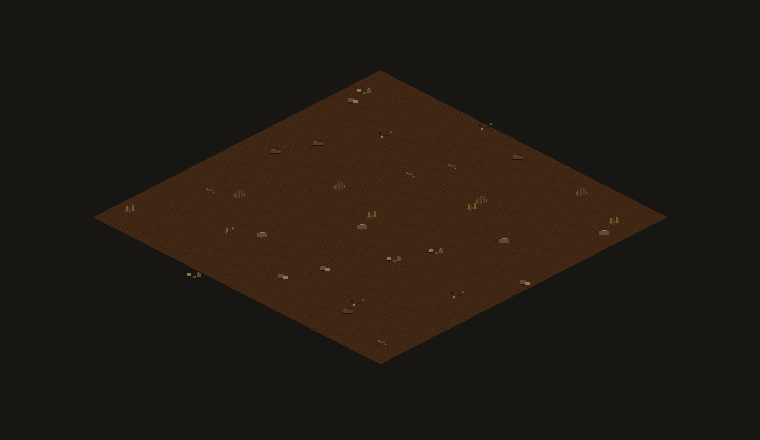
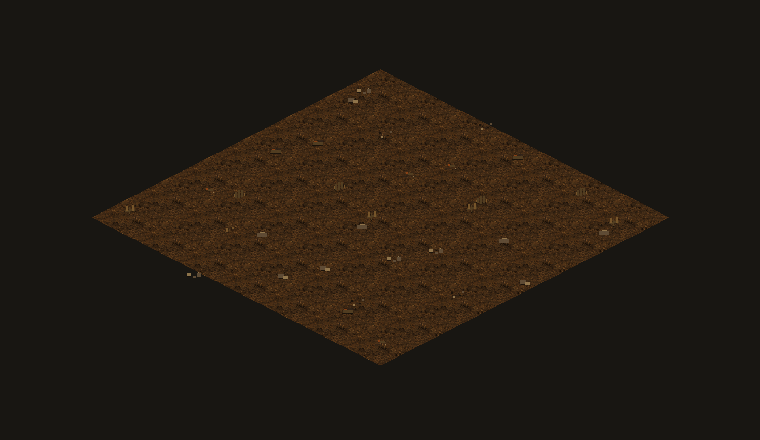
Apply Nido Wars architecture guidance

diff --git a/src/rendering/TilePainter.js b/src/rendering/TilePainter.js
@@ -4,7 +4,8 @@ import { DESERT_TILE_ART } from "../content/tiles/desert/art.js";
 import { CAMPGROUND_TILE_ART } from "../content/tiles/campground/art.js";
 
 const DESERT_TILE_SPRITE_SRC = DESERT_TILE_ART.sprite;
-const CAMPGROUND_GROUND_SRC = CAMPGROUND_TILE_ART.ground;
+const CAMPGROUND_GROUND = CAMPGROUND_TILE_ART.ground;
+const CAMPGROUND_GROUND_SRC = CAMPGROUND_GROUND.src;
 const CAMPGROUND_DECORATIONS_SRC = CAMPGROUND_TILE_ART.decorations;
 const CAMPGROUND_DECORATION_WIDTH = 28;
 const CAMPGROUND_DECORATION_HEIGHT = 22;
@@ -37,7 +38,9 @@ export class TilePainter {
   paintTerrain(ctx, { tile, x, y, elapsed }) {
     const corners = this.getCorners(x, y);
 
-    this.paintShadow(ctx, corners, tile);
+    if (!this.isCampgroundTile(tile)) {
+      this.paintShadow(ctx, corners, tile);
+    }
     this.paintTop(ctx, corners, tile);
     this.paintTexture(ctx, corners, tile);
     this.paintFeature(ctx, corners, tile, elapsed);
@@ -113,6 +116,10 @@ export class TilePainter {
   }
 
   paintTexture(ctx, corners, tile) {
+    if (this.isCampgroundTile(tile) && this.isCampgroundSpriteReady()) {
+      return;
+    }
+
     ctx.save();
     drawDiamond(ctx, corners);
     ctx.clip();
@@ -138,30 +145,29 @@ export class TilePainter {
 
   paintCampgroundTop(ctx, corners, tile) {
     const image = this.campgroundSprite;
-    const shouldFlip = seeded(tile.seed, 11) > 0.5;
+    const frameIndex = Math.floor(seeded(tile.seed, 17) * CAMPGROUND_GROUND.frameCount);
+    const overlap = 1.5;
 
     ctx.save();
     ctx.imageSmoothingEnabled = false;
-
-    if (shouldFlip) {
-      ctx.translate(corners.left.x + this.tileWidth, corners.top.y);
-      ctx.scale(-1, 1);
-      ctx.drawImage(image, 0, 0, this.tileWidth, this.tileHeight);
-    } else {
-      ctx.drawImage(image, corners.left.x, corners.top.y, this.tileWidth, this.tileHeight);
-    }
-
-    drawDiamond(ctx, corners);
+    drawDiamond(ctx, {
+      top: { x: corners.top.x, y: corners.top.y - overlap },
+      right: { x: corners.right.x + overlap, y: corners.right.y },
+      bottom: { x: corners.bottom.x, y: corners.bottom.y + overlap },
+      left: { x: corners.left.x - overlap, y: corners.left.y },
+    });
     ctx.clip();
-
-    if (tile.lightness > 0) {
-      ctx.fillStyle = `rgba(174, 116, 61, ${Math.min(0.12, tile.lightness * 1.9)})`;
-      ctx.fillRect(corners.left.x, corners.top.y, this.tileWidth, this.tileHeight);
-    } else if (tile.lightness < 0) {
-      ctx.fillStyle = `rgba(24, 16, 10, ${Math.min(0.12, Math.abs(tile.lightness) * 2.1)})`;
-      ctx.fillRect(corners.left.x, corners.top.y, this.tileWidth, this.tileHeight);
-    }
-
+    ctx.drawImage(
+      image,
+      frameIndex * CAMPGROUND_GROUND.frameWidth,
+      0,
+      CAMPGROUND_GROUND.frameWidth,
+      CAMPGROUND_GROUND.frameHeight,
+      corners.left.x - overlap,
+      corners.top.y - overlap,
+      this.tileWidth + overlap * 2,
+      this.tileHeight + overlap * 2,
+    );
     ctx.restore();
   }
 

diff --git a/src/rendering/CanvasRenderer.js b/src/rendering/CanvasRenderer.js
@@ -8,6 +8,7 @@ import { getLoadedImage } from "../engine/assets/AssetLoader.js";
 import { gridToWorld, worldToGrid } from "./isoMath.js";
 
 const FIRECAMP_SPRITE_SRC = FIRECAMP_ART.fireplace;
+const FIRECAMP_SHEET = FIRECAMP_ART.fireplaceSheet;
 
 export class CanvasRenderer {
   constructor({ canvas, camera, config }) {
@@ -22,6 +23,7 @@ export class CanvasRenderer {
     this.treasurePainter = new TreasurePainter();
     this.unitPainter = new UnitPainter(config);
     this.firecampSprite = null;
+    this.firecampSheet = null;
     this.terrainCache = null;
     this.structureCache = null;
     this.fogCache = null;
@@ -30,6 +32,7 @@ export class CanvasRenderer {
   setImageCache(imageCache) {
     this.imageCache = imageCache;
     this.firecampSprite = getLoadedImage(imageCache, FIRECAMP_SPRITE_SRC);
+    this.firecampSheet = getLoadedImage(imageCache, FIRECAMP_SHEET.src);
     this.tilePainter.setImageCache(imageCache);
     this.herbPainter.setImageCache(imageCache);
     this.resourceNodePainter.setImageCache(imageCache);
@@ -667,12 +670,38 @@ export class CanvasRenderer {
 
     const point = this.getTileCenter(campTile);
 
+    if (this.firecampSheet) {
+      this.paintFirecampSheet(ctx, point, elapsed);
+      return;
+    }
+
     if (this.firecampSprite) {
       this.paintFirecampSprite(ctx, point);
       return;
     }
 
     this.paintProceduralCamp(ctx, point, elapsed);
+  }
+
+  paintFirecampSheet(ctx, point, elapsed) {
+    const width = this.config.tileWidth * 3;
+    const height = this.config.tileHeight * 3;
+    const frameIndex = Math.floor(elapsed / FIRECAMP_SHEET.frameDurationMs) % FIRECAMP_SHEET.frameCount;
+
+    ctx.save();
+    ctx.imageSmoothingEnabled = false;
+    ctx.drawImage(
+      this.firecampSheet,
+      frameIndex * FIRECAMP_SHEET.frameWidth,
+      0,
+      FIRECAMP_SHEET.frameWidth,
+      FIRECAMP_SHEET.frameHeight,
+      point.x - width / 2,
+      point.y - height / 2,
+      width,
+      height,
+    );
+    ctx.restore();
   }
 
   paintFirecampSprite(ctx, point) {

diff --git a/src/content/assets/runtimeImages.js b/src/content/assets/runtimeImages.js
@@ -11,7 +11,8 @@ export const RUNTIME_IMAGE_ASSETS = [
   ...Object.values(PLAYER_UNIT_ART).flatMap((art) => [art.idleSheet, art.walkSheet]),
   ...Object.values(UNIT_V2_ART).map((art) => art.atlas?.src),
   DESERT_TILE_ART.sprite,
-  CAMPGROUND_TILE_ART.ground,
+  CAMPGROUND_TILE_ART.ground.src,
   CAMPGROUND_TILE_ART.decorations,
   FIRECAMP_ART.fireplace,
+  FIRECAMP_ART.fireplaceSheet.src,
 ].filter(Boolean);

diff --git a/src/content/tiles/campground/art.js b/src/content/tiles/campground/art.js
@@ -1,4 +1,9 @@
 export const CAMPGROUND_TILE_ART = {
-  ground: "./src/content/tiles/campground/art/ground_tile_runtime.png",
+  ground: {
+    src: "./src/content/tiles/campground/art/ground_tiles.png",
+    frameWidth: 164,
+    frameHeight: 84,
+    frameCount: 1,
+  },
   decorations: "./src/content/tiles/campground/art/decorations.png",
 };

diff --git a/src/content/objects/firecamp/art.js b/src/content/objects/firecamp/art.js
@@ -1,3 +1,10 @@
 export const FIRECAMP_ART = {
   fireplace: "./src/content/objects/firecamp/art/fireplace.png",
+  fireplaceSheet: {
+    src: "./src/content/objects/firecamp/art/fireplace_sheet.png",
+    frameWidth: 384,
+    frameHeight: 211,
+    frameCount: 8,
+    frameDurationMs: 105,
+  },
 };
